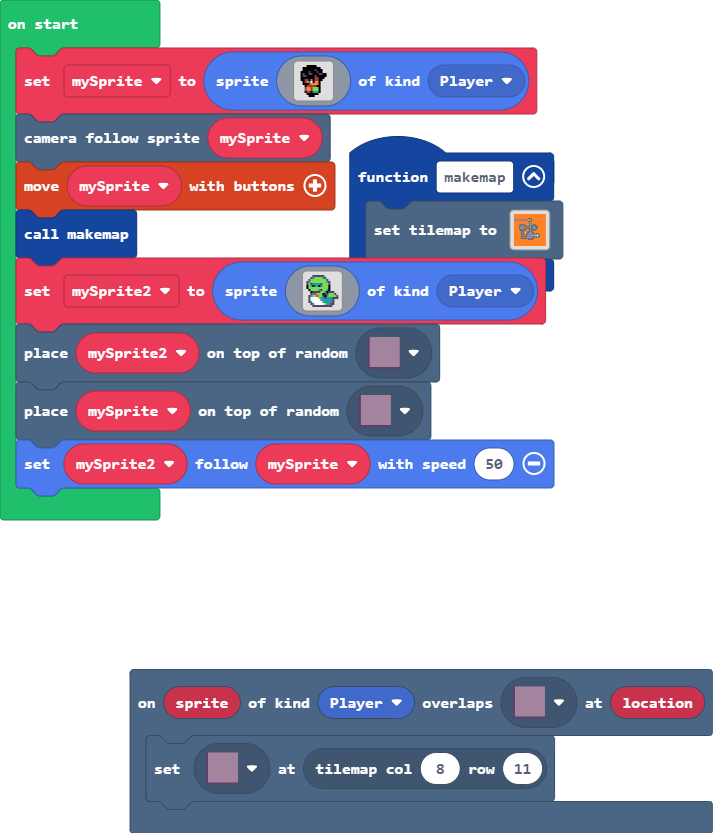
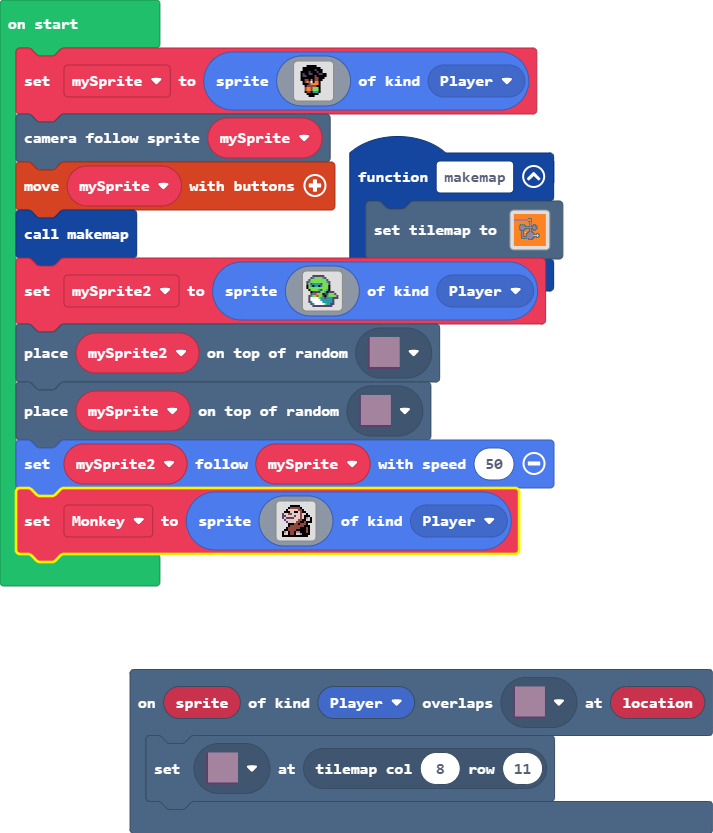
Added monkey sprite

Changed region(s): [[0.0, 0.5618, 0.7405, 0.7179]]

diff --git a/main.ts b/main.ts
@@ -79,3 +79,21 @@ let mySprite2 = sprites.create(img`
 tiles.placeOnRandomTile(mySprite2, myTiles.tile1)
 tiles.placeOnRandomTile(mySprite, myTiles.tile1)
 mySprite2.follow(mySprite, 50)
+let Monkey = sprites.create(img`
+    . . . . . f f f f f . . . . . . 
+    . . . . f e e e e e f . . . . . 
+    . . . f d d d d d e e f . . . . 
+    . . f f f d d f f d e f f . . . 
+    . c d d e e d d d d e d d f . . 
+    . c c d d d d c d d e d f f f . 
+    . c d c c c c d d d e d f b d f 
+    . . c d d d d d d e e f f d d f 
+    . . . c d d d d e e f f e f f f 
+    . . . . f f f e e f e e e f . . 
+    . . . . f e e e e e e e f f f . 
+    . . . f e e e e e e f f f e f . 
+    . . f f e e e e f f f f f e f . 
+    . f b d f e e f b b f f f e f . 
+    . f d d f e e f d d b f f f f . 
+    . f f f f f f f f f f f f f . . 
+    `, SpriteKind.Player)
